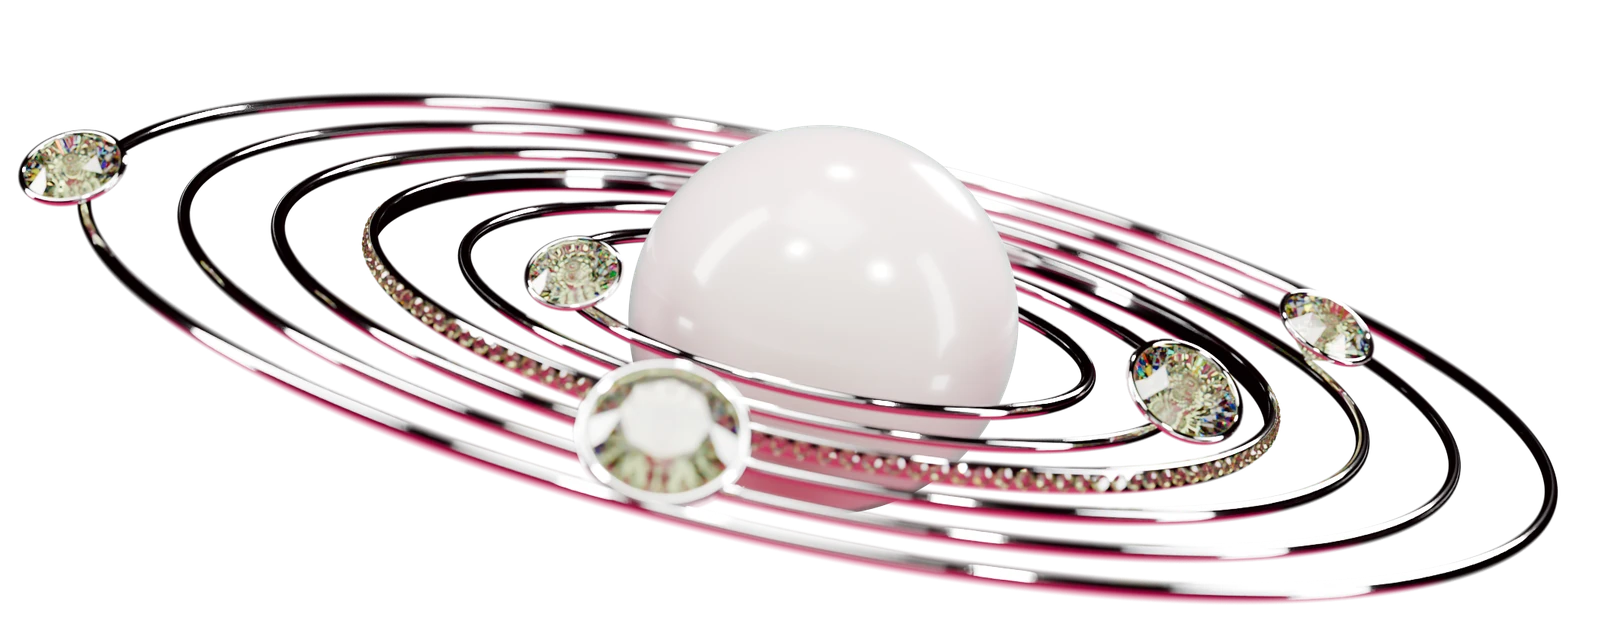
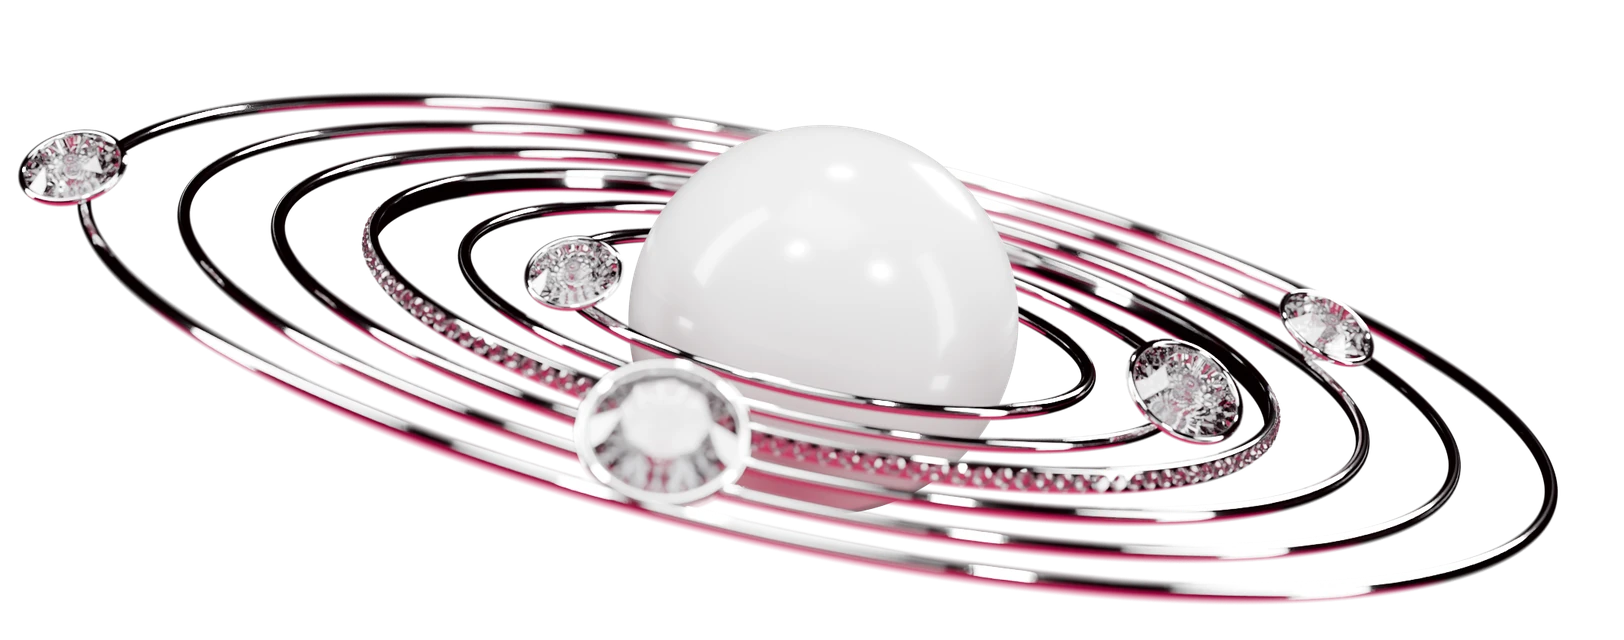
Front page: neutral colour only, no yellow cast and no rainbow
Diamonds rendered without spectral dispersion, pearl without rose/green overtone, all studio lights neutral white. Hero and diamond ornament re-rendered.

Claude-Session: https://claude.ai/code/session_01DRAcaayjo7nUq6nJStwztm

diff --git a/index.html b/index.html
@@ -853,7 +853,7 @@ html,body{overflow-x:clip !important;}
 .row-birth .row-time>div:first-child label{white-space:nowrap;}
 
 </style>
-<link rel="stylesheet" href="red-look.css?v=20261138">
+<link rel="stylesheet" href="red-look.css?v=20261139">
 <link rel="stylesheet" href="obsidian-look.css?v=8">
 <style id="btn3d">
 /* Buttons: same shapes; speckle-free copies of the button images (img/k3), real depth, words engraved into the face. */
@@ -1011,7 +1011,7 @@ html.red:has(#resultsWrap[style*="block"]) body{background:radial-gradient(ellip
 .fan-reading>.panel-auto,.fan-reading>.panel-error{padding:18px 20px !important}
 .fan-reading .dph{background:transparent !important;color:#8c1034 !important;border-bottom:1px solid #0b0b10 !important}
 </style>
-<link rel="preload" href="img/jewel/hero.webp" as="image" type="image/webp">
+<link rel="preload" href="img/jewel/hero.webp?v=2" as="image" type="image/webp">
 </head>
 <body>
 <svg width="0" height="0" style="position:absolute" aria-hidden="true" focusable="false"><defs>
@@ -1039,7 +1039,7 @@ html.red:has(#resultsWrap[style*="block"]) body{background:radial-gradient(ellip
   <div class="r-fcr">FULL charts and combined reading</div>
 
   <div class="hero-illustration" aria-hidden="true">
-    <img class="jewel" src="img/jewel/hero.webp" width="542" height="214" alt="" decoding="async" fetchpriority="high">
+    <img class="jewel" src="img/jewel/hero.webp?v=2" width="542" height="214" alt="" decoding="async" fetchpriority="high">
   </div>
 
   <div class="r-free"><span class="r-free-lead">First reading is</span> <span class="r-free-word">FREE!</span></div>
